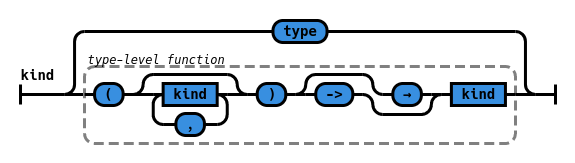
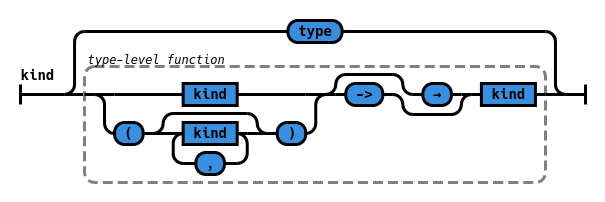
allow un-parenthesized type-level functions

Changed region(s): [[0.0296, 0.092, 0.9757, 0.9202]]

diff --git a/railroad-diagrams.py b/railroad-diagrams.py
@@ -1432,12 +1432,18 @@ def zilch_constrained_type():
 
 def zilch_function_type():
 	inner = Sequence(
-		Terminal('('),
-		ZeroOrMore(
+	    Choice(
+		0,
+		NonTerminal('type'),
+		Sequence(
+		    Terminal('('),
+		    ZeroOrMore(
 			NonTerminal('type'),
 			Terminal(',')
-		),
-		Terminal(')'),
+		    ),
+		    Terminal(')'),
+		)
+	    ),
 		HorizontalChoice(
 			Terminal('->'),
 			Terminal('→')
@@ -1504,12 +1510,18 @@ def zilch_kind():
 		Terminal('type'),
 		Group(
 			Sequence(
-				Terminal('('),
-				ZeroOrMore(
+			    Choice(
+				0,
+				NonTerminal('kind'),
+				Sequence(
+				    Terminal('('),
+				    ZeroOrMore(
 					NonTerminal('kind'),
 					Terminal(',')
-				),
-				Terminal(')'),
+				    ),
+				    Terminal(')'),
+				)
+			    ),
 				HorizontalChoice(
 					Terminal('->'),
 					Terminal('→')
@@ -1656,4 +1668,4 @@ def zilch_letin():
 
 	return mk_diagram2('let-in', inner)
 
-zilch_letin().writeSvg(sys.stdout.write)
+zilch_kind().writeSvg(sys.stdout.write)

diff --git a/part1-zilch.tex b/part1-zilch.tex
@@ -356,7 +356,7 @@ Record literals allow constructing records in the same fashion as in e.g.\ C.
 Types lie at the same level as expressions, but are put in a separate section for comprehensiveness sake.
 An expression \verb|e| is said to be of type \verb|t| if evaluating it yields (or at least is supposed to) any value in the set \verb|t|.
 
-Wildcard abstractions are only allowed in \verb|impl| blocks, despite being a general type, and follow the same desugaring rules as their expression-level counterparts (see Table~\ref{table:zilch-grammar-expressions-lambda-translatewildcard} for some examples; replace \verb|fn| with \verb|Fn| to get the type-level counterparts).
+Wildcard abstractions are only allowed in \verb|impl| blocks, despite being a general type, and follow the same desugaring rules as their expression-level counterparts (see Table~\ref{table:zilch-grammar-expressions-lambda-translatewildcard} for some examples).
 Any other type can be used anywhere.
 
 \begin{figure}[H]
